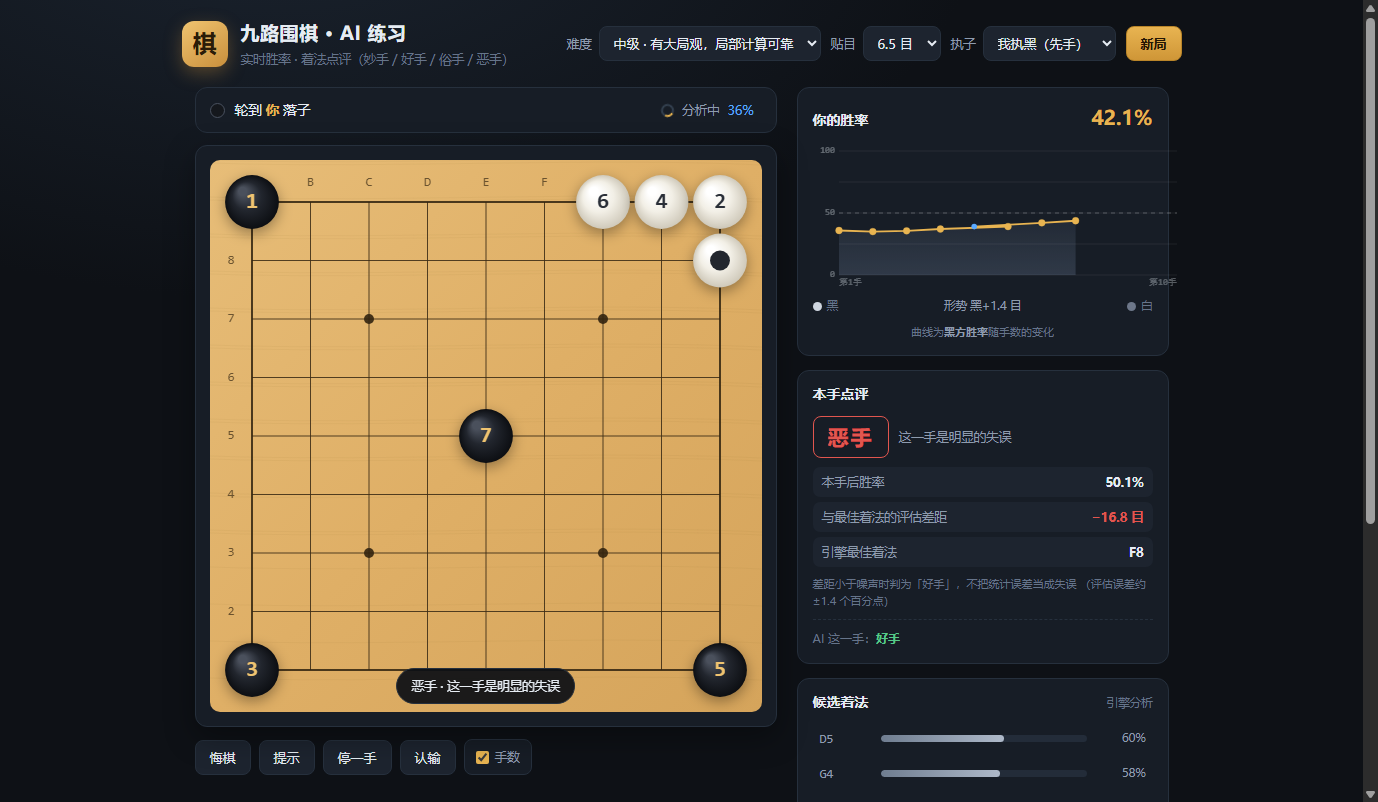
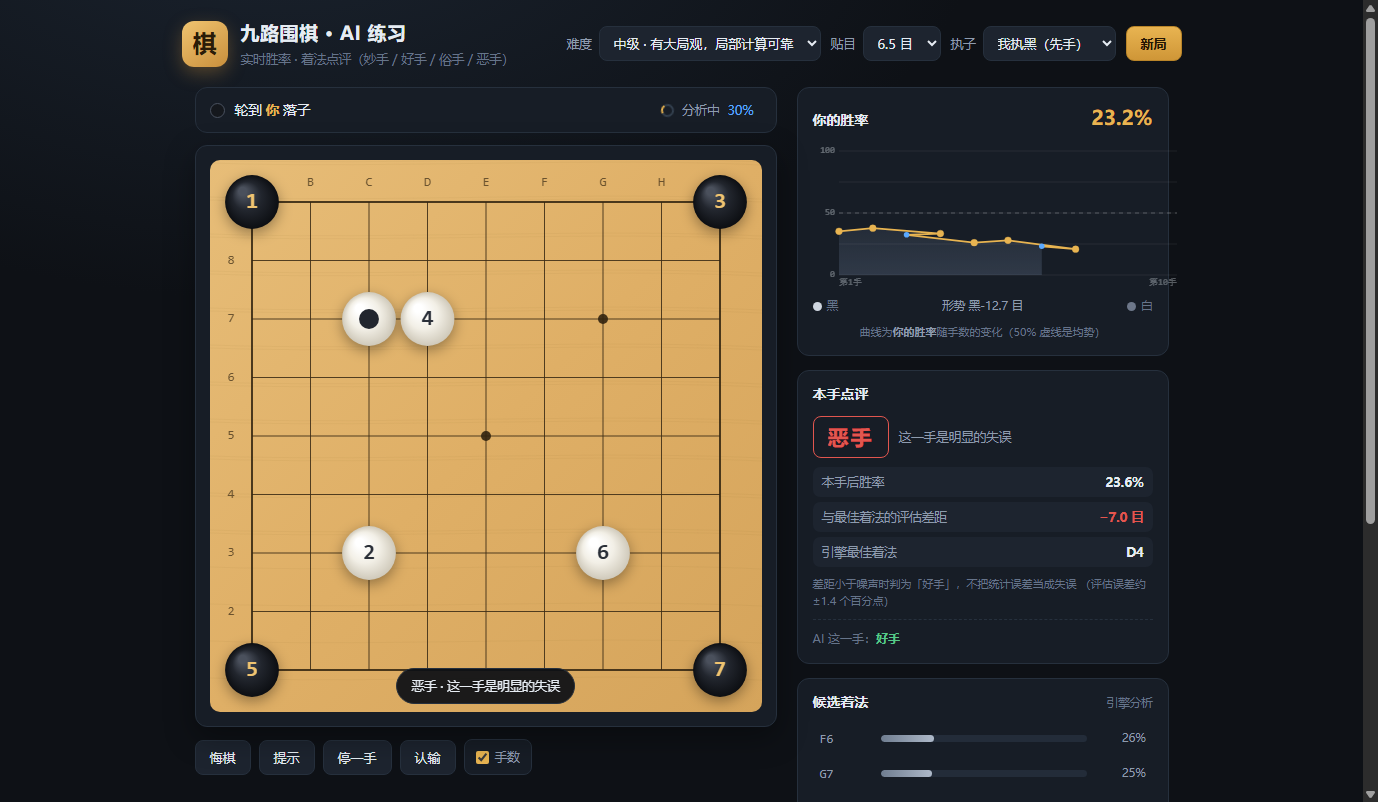
README：更新难度档位的思考时间实测（模拟快 15% 后：中级 ~3.4s）

diff --git a/README.md b/README.md
@@ -183,11 +183,11 @@ A/B 实测（2 局 × 24 手）：
 
 | 难度 | 粗评/手 | 精评最终样本 | 精评候选数 | 思考时间 | 选中最优着法概率 |
 |---|---|---|---|---|---|
-| 入门 | 25 | 80 | 10 | ~1.2s | 28%（另有 30% 概率直接随机失误） |
-| 初级 | 40 | 140 | 12 | ~1.8s | 48%（12% 随机失误） |
-| 中级 | 60 | 220 | 14 | ~2.8s | 70%（4% 随机失误） |
-| 高级 | 80 | 320 | 16 | ~4s | 88% |
-| 大师 | 100 | 440 | 18 | ~6s | 97% |
+| 入门 | 25 | 80 | 10 | ~1.3s | 28%（另有 30% 概率直接随机失误） |
+| 初级 | 40 | 140 | 12 | ~2.0s | 48%（12% 随机失误） |
+| 中级 | 60 | 220 | 14 | ~3.4s | 70%（4% 随机失误） |
+| 高级 | 80 | 320 | 16 | ~4.7s | 88% |
+| 大师 | 100 | 440 | 18 | ~6.8s | 97% |
 
 难度不只靠"搜索更深"体现，更靠**选点策略**：模拟预算决定评估精度，
 `bestP` 决定它有多大概率走最优着法，`randomP` 决定它多大概率犯错——
